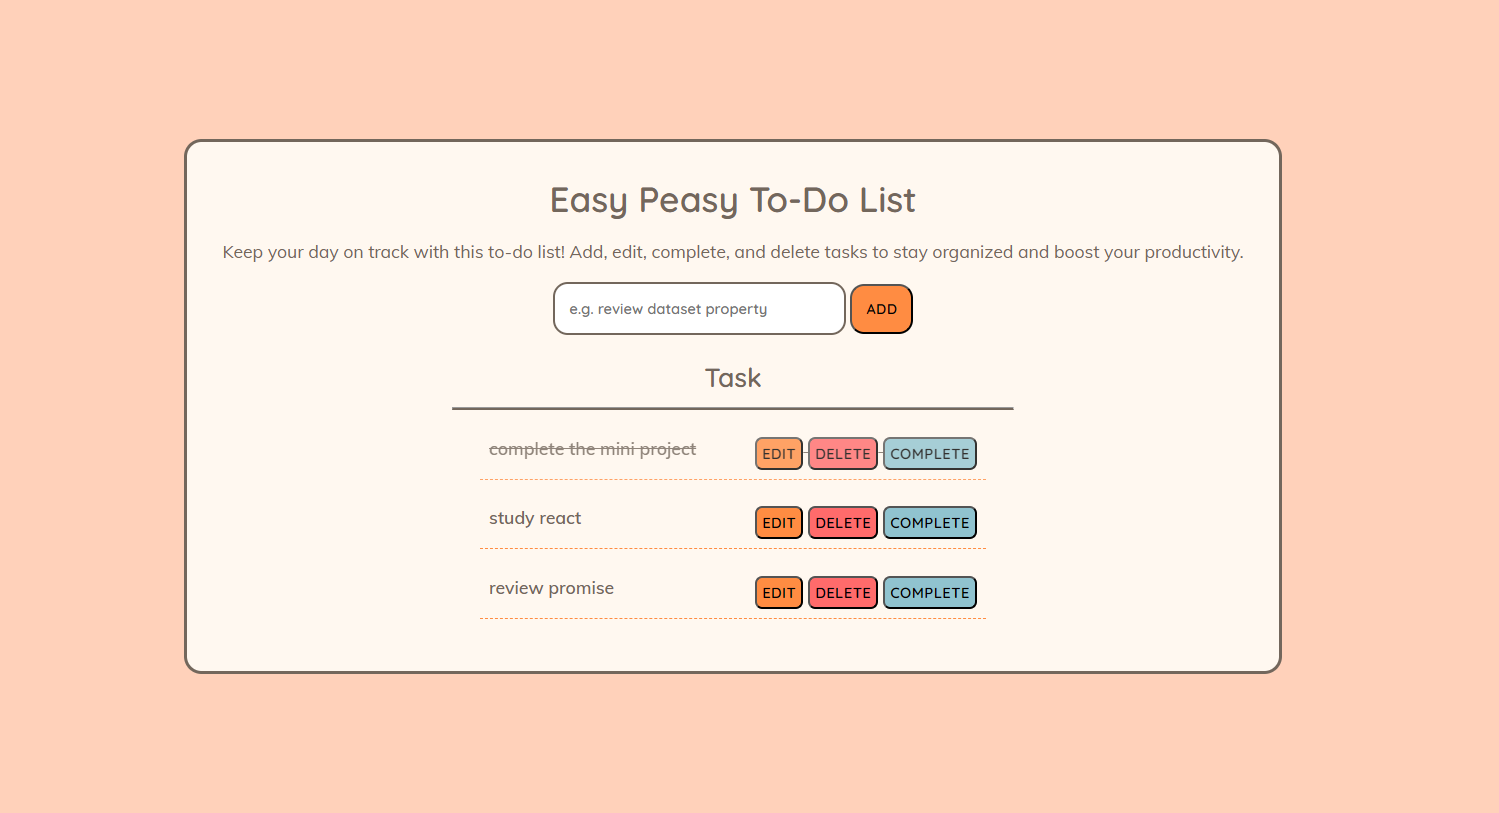
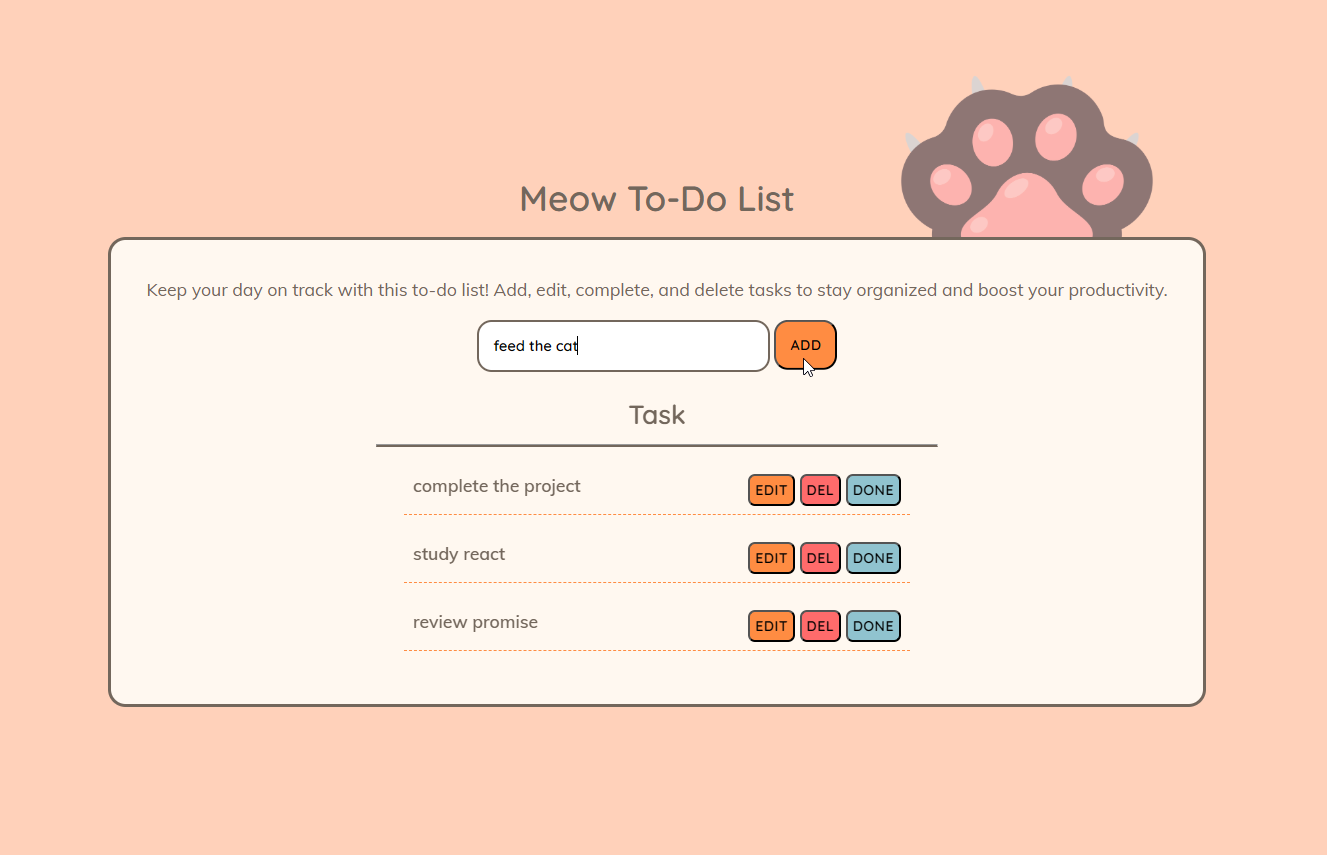
animation

diff --git a/css/index.css b/css/index.css
@@ -89,7 +89,22 @@ header {
 .img-container img {
     width: 100%;
     opacity: 0.8;
-    transform: rotate(15deg);
+
+    animation: slide-out-stretch 3s ease-out;
+}
+
+@keyframes slide-out-stretch {
+    0% {
+        transform: translateY(-18em);
+    }
+
+    50% {
+        transform: scale(0.8);
+        transform: rotate(100deg);
+    }
+    100% {
+        transform: scale(1.1);
+    }
 }
 .container {
     background-color: var(--clr-ctn);
